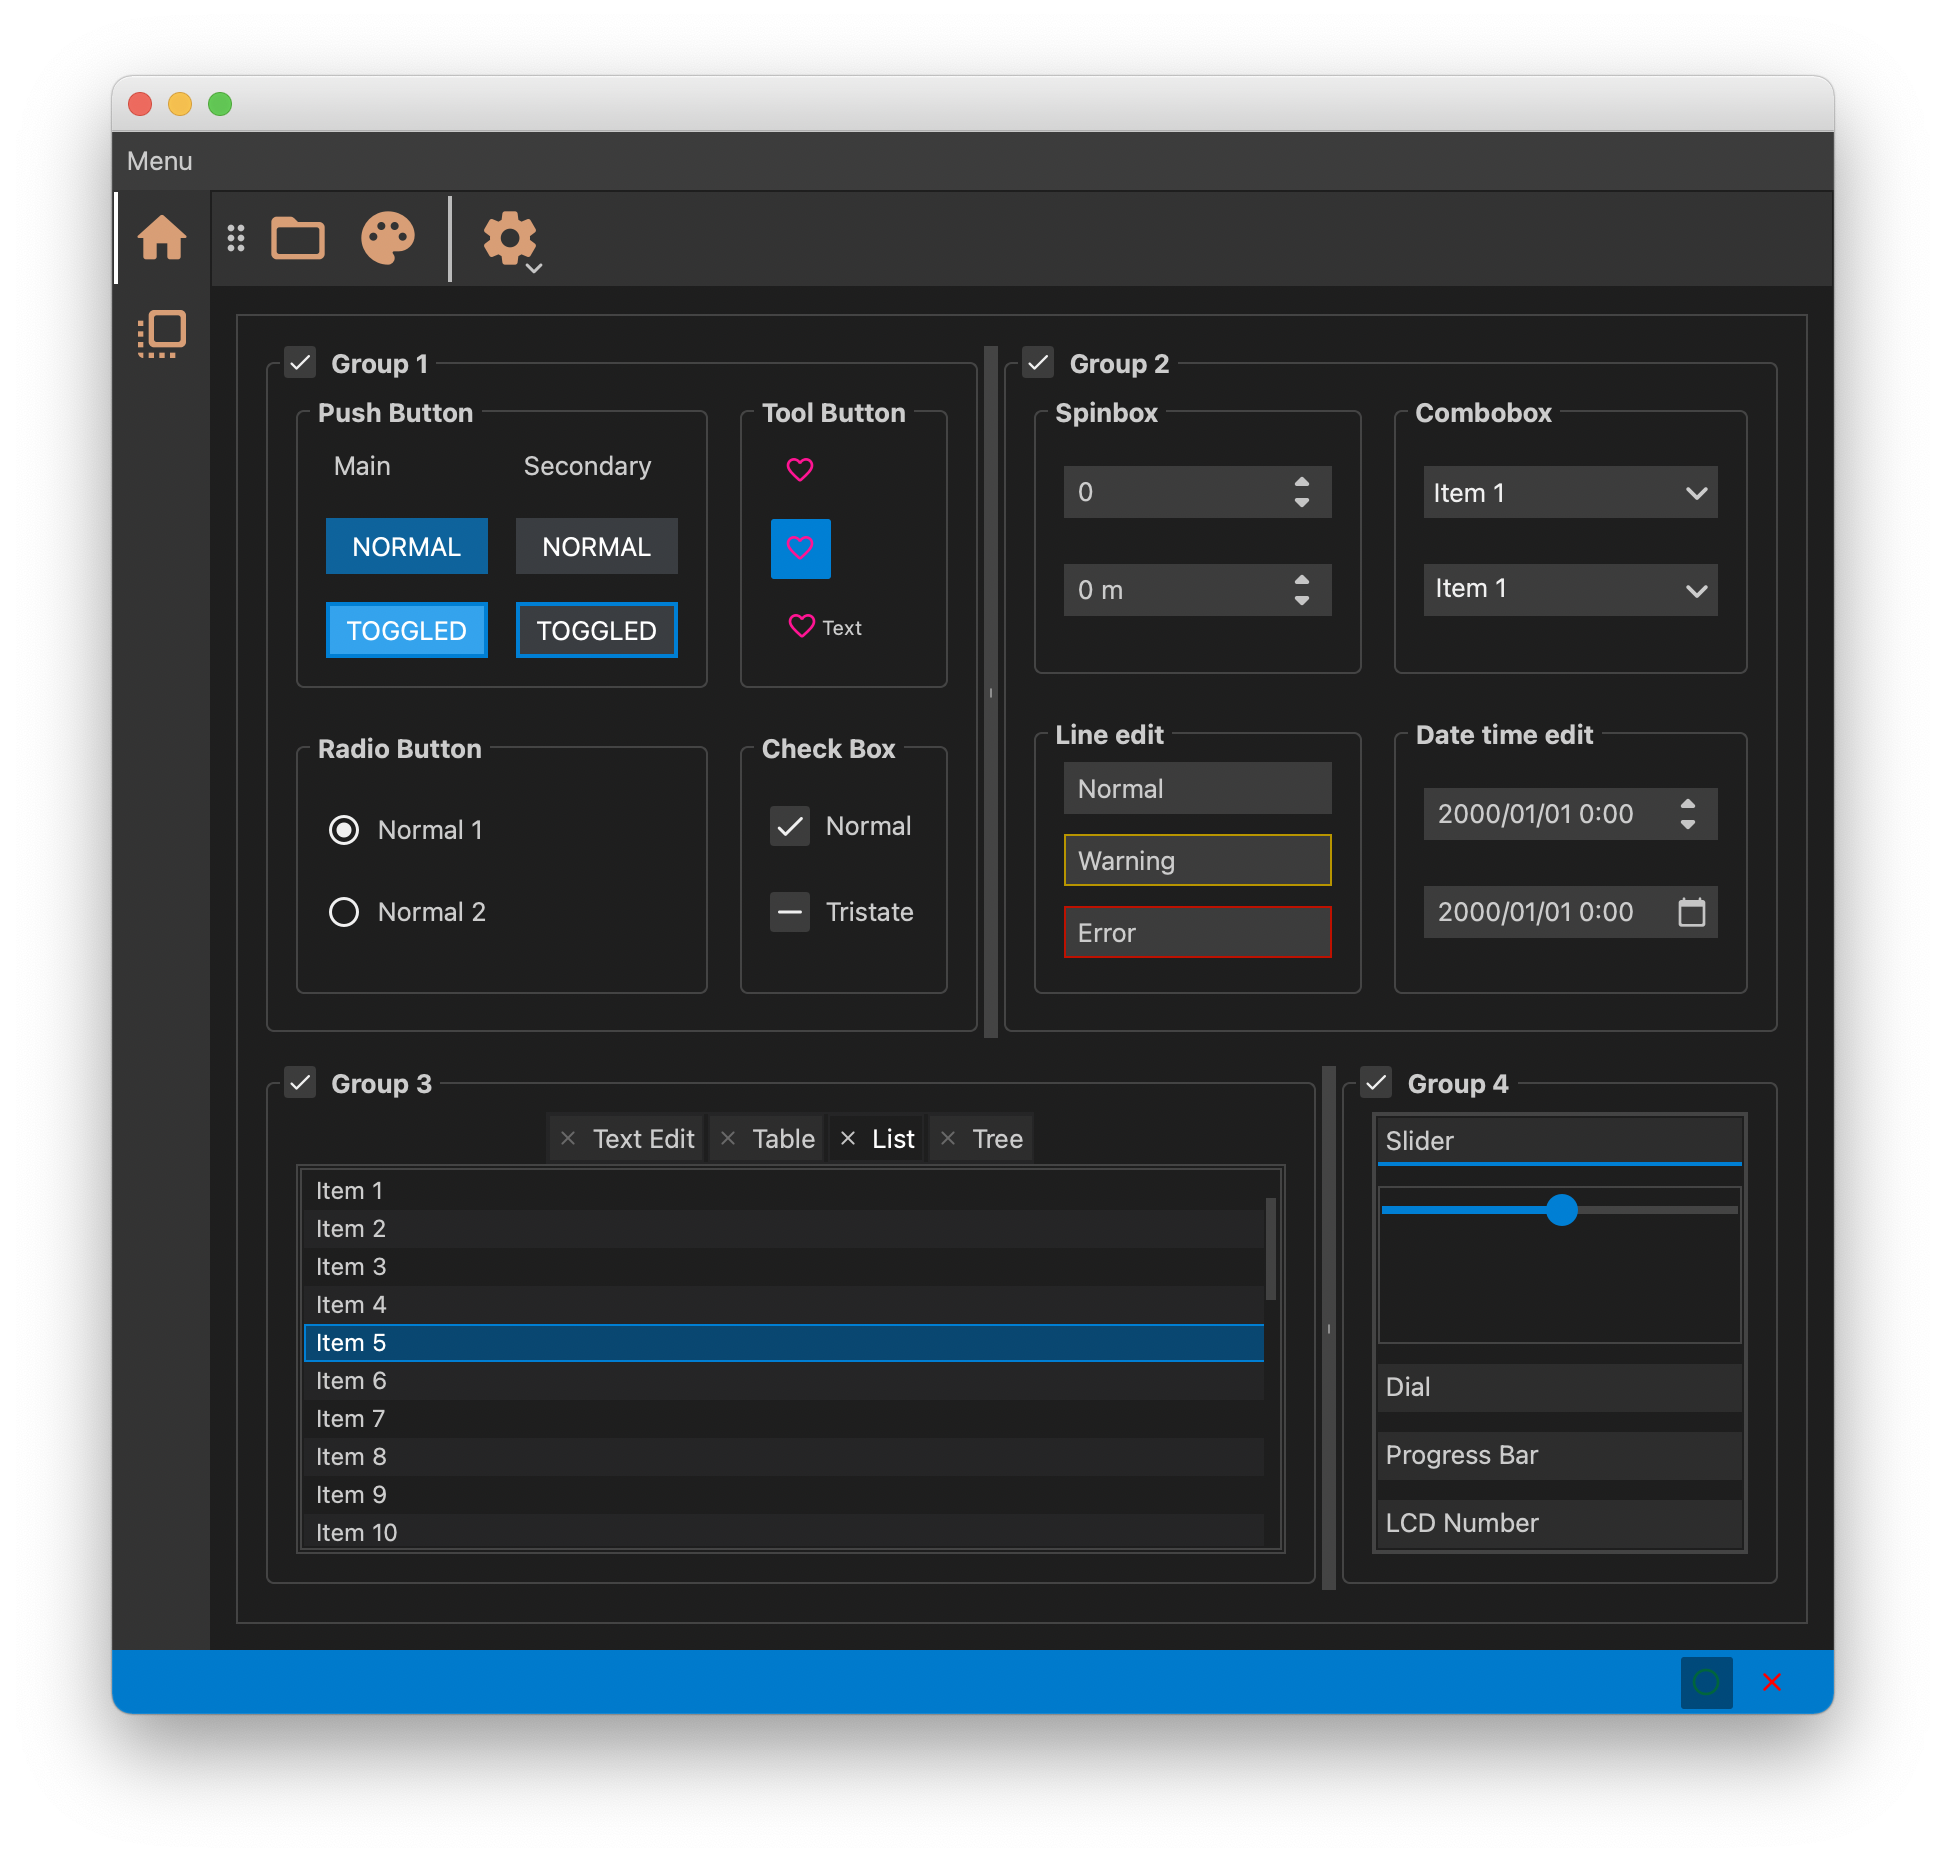
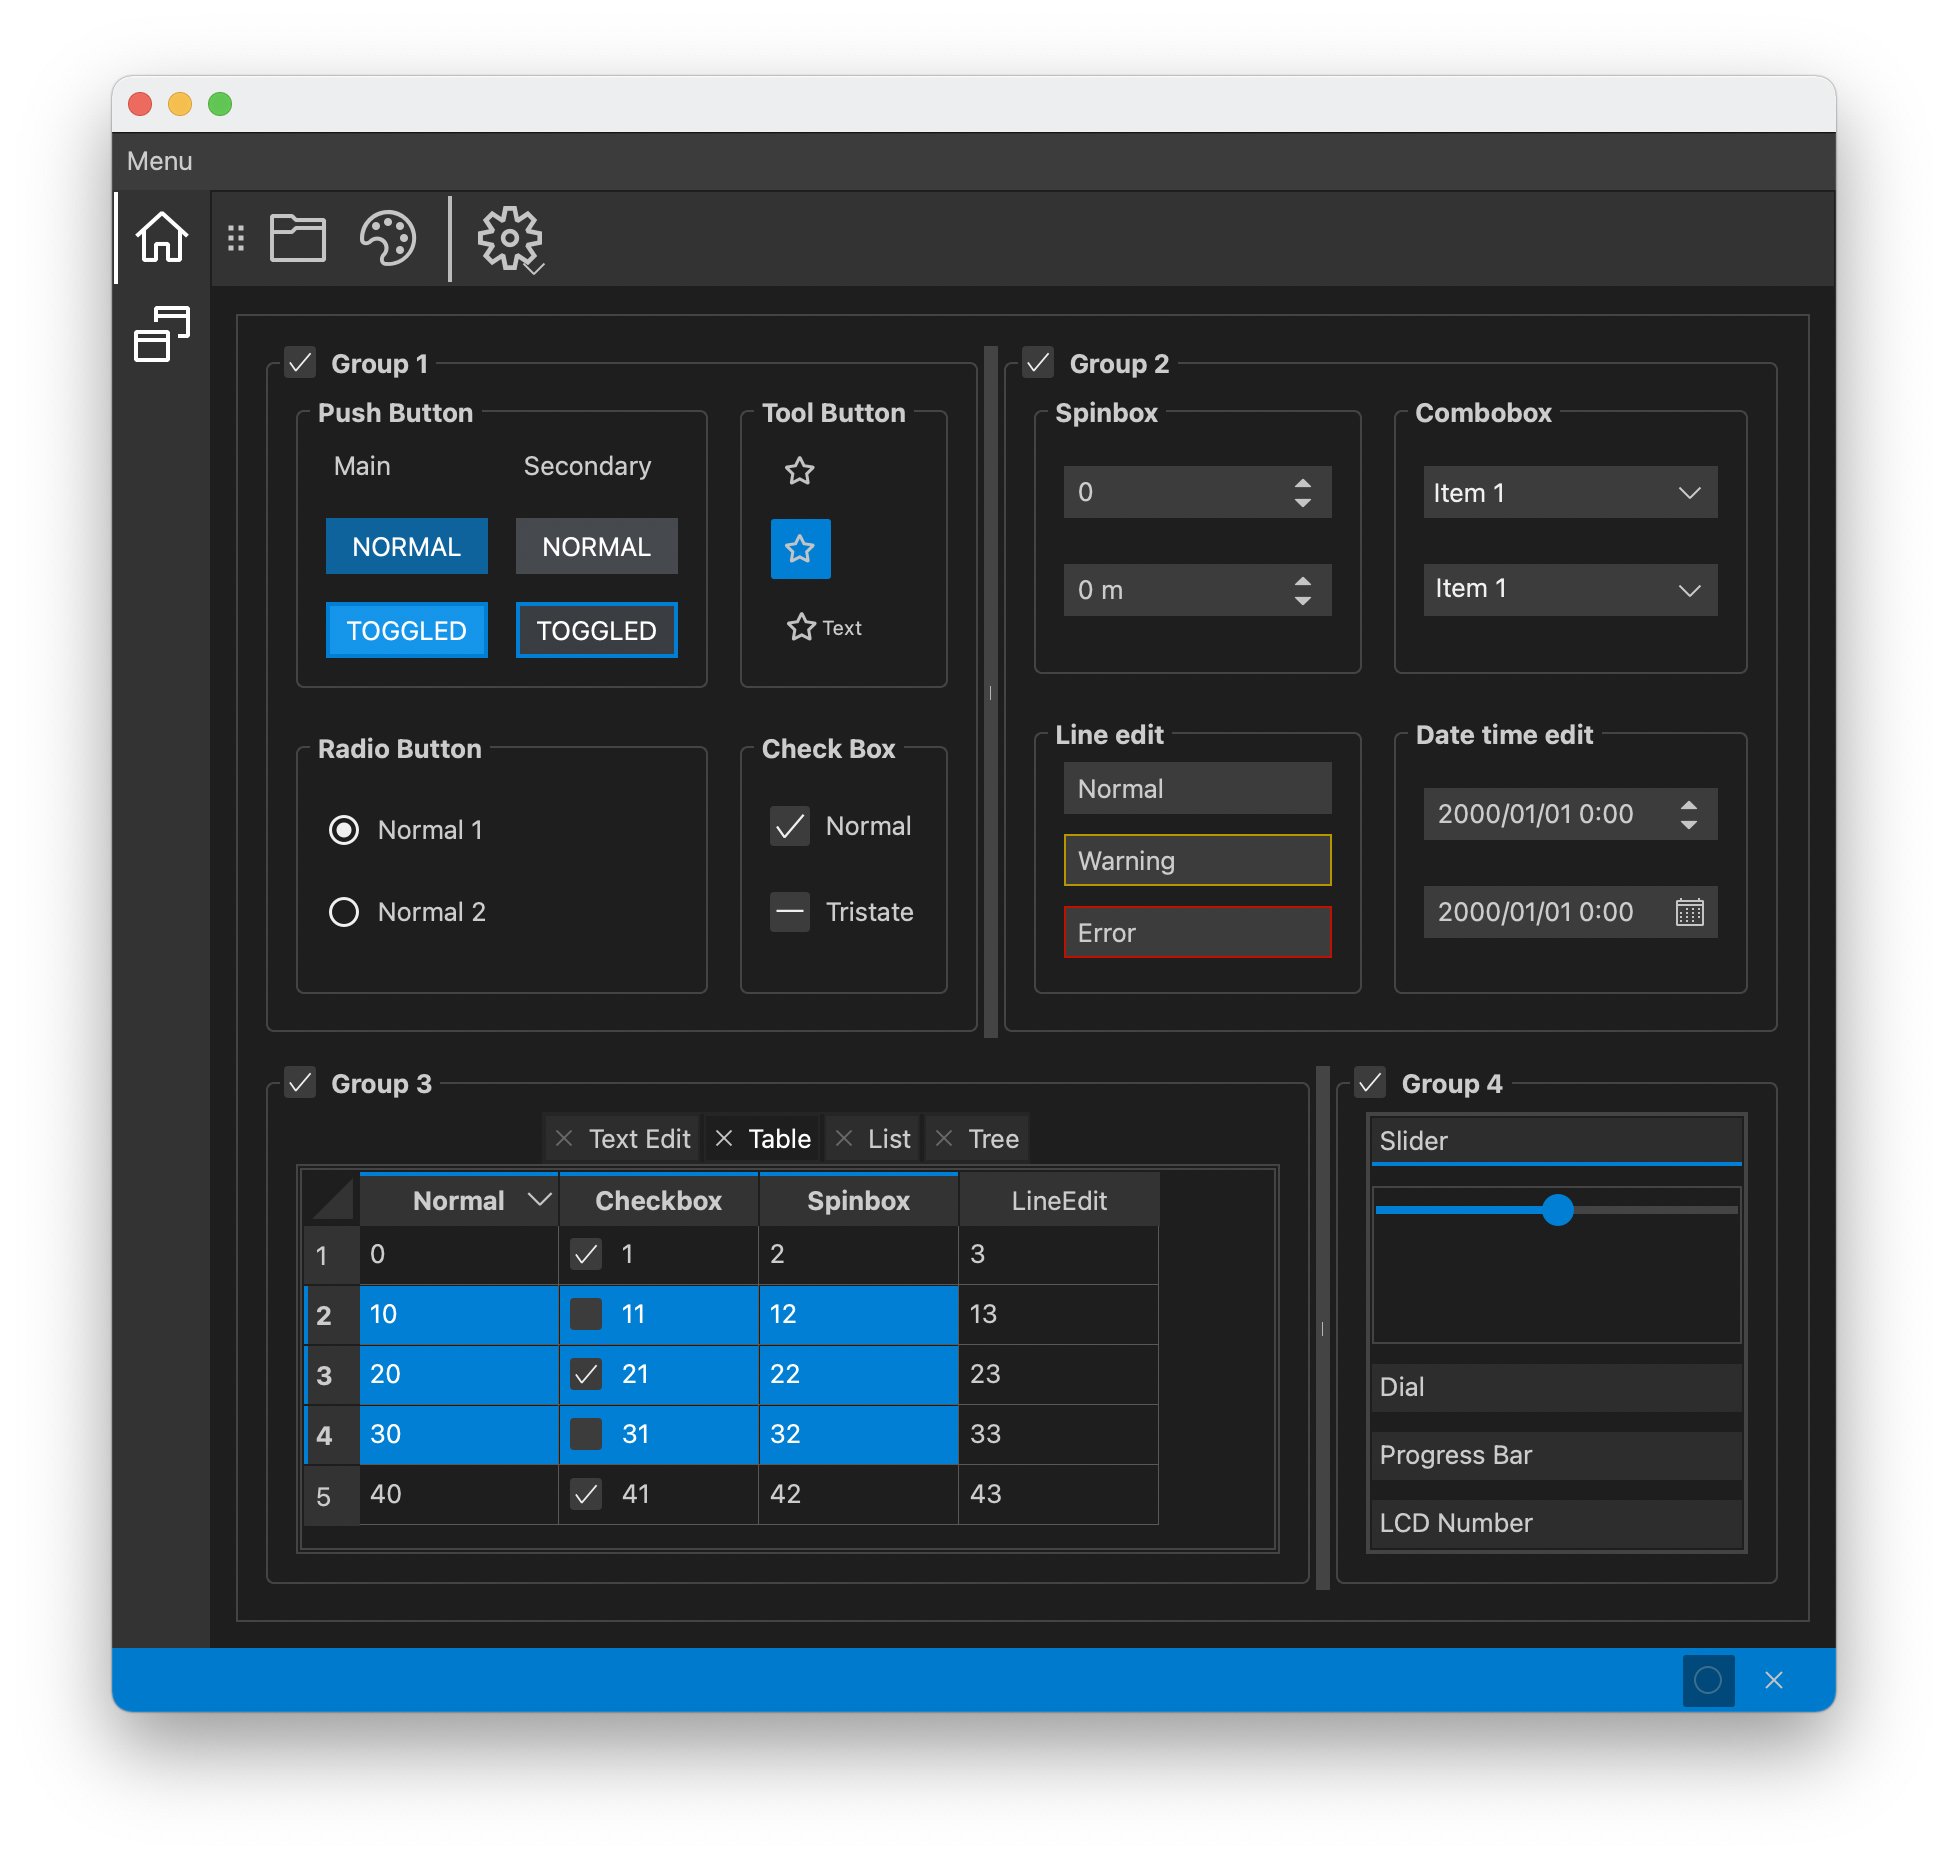
Update readme

diff --git a/README.md b/README.md
@@ -16,6 +16,8 @@ The default and extension themes of VS Code can be used.
 |[Dark (Visual Studio)](https://raw.githubusercontent.com/5yutan5/QtVSCodeStyle/main/images/widget_gallery_dark.png)|[Light (Visual Studio)](https://raw.githubusercontent.com/5yutan5/QtVSCodeStyle/main/images/widget_gallery_light.png)|[Dark High Contrast](https://raw.githubusercontent.com/5yutan5/QtVSCodeStyle/main/images/widget_gallery_hc.png)|
 | :--: | :--: | :--: |
 |[![widget_gallery_dark_theme](https://raw.githubusercontent.com/5yutan5/QtVSCodeStyle/main/images/widget_gallery_dark.png)](https://raw.githubusercontent.com/5yutan5/QtVSCodeStyle/main/images/widget_gallery_dark.png)|[![widget_gallery_light_them](https://raw.githubusercontent.com/5yutan5/QtVSCodeStyle/main/images/widget_gallery_light.png)](https://raw.githubusercontent.com/5yutan5/QtVSCodeStyle/main/images/widget_gallery_light.png)|[![widget_gallery_light_them](https://raw.githubusercontent.com/5yutan5/QtVSCodeStyle/main/images/widget_gallery_hc.png)](https://raw.githubusercontent.com/5yutan5/QtVSCodeStyle/main/images/widget_gallery_hc.png)|
+|[widget_gallery_night_owl_theme](https://raw.githubusercontent.com/5yutan5/QtVSCodeStyle/main/images/widget_gallery_night_owl.png)|[One Dark Pro](https://raw.githubusercontent.com/5yutan5/QtVSCodeStyle/main/images/widget_gallery_one_dark_pro.png)|[Ayu Light](https://raw.githubusercontent.com/5yutan5/QtVSCodeStyle/main/images/widget_gallery_ayu_light.png)|
+|[![Night Owl](https://raw.githubusercontent.com/5yutan5/QtVSCodeStyle/main/images/widget_gallery_night_owl.png)](https://raw.githubusercontent.com/5yutan5/QtVSCodeStyle/main/images/widget_gallery_night_owl.png)|[![widget_gallery_one_dark_pro_theme](https://raw.githubusercontent.com/5yutan5/QtVSCodeStyle/main/images/widget_gallery_one_dark_pro.png)](https://raw.githubusercontent.com/5yutan5/QtVSCodeStyle/main/images/widget_gallery_one_dark_pro.png)|[![widget_gallery_ayu_light_them](https://raw.githubusercontent.com/5yutan5/QtVSCodeStyle/main/images/widget_gallery_ayu_light.png)](https://raw.githubusercontent.com/5yutan5/QtVSCodeStyle/main/images/widget_gallery_ayu_light.png)
 
 etc...
 
@@ -51,15 +53,15 @@ import sys
 
 from PySide6.QtWidgets import QApplication, QMainWindow, QPushButton
 
-from qtvscodestyle import Theme, load_stylesheet
+import qtvscodestyle as qtvsc
 
 app = QApplication(sys.argv)
 main_win = QMainWindow()
 push_button = QPushButton("QtVSCodeStyle!!")
 main_win.setCentralWidget(push_button)
 
-stylesheet = load_stylesheet(Theme.DARK_VS)
-# stylesheet = load_stylesheet(Theme.LIGHT_VS)
+stylesheet = qtvsc.load_stylesheet(qtvsc.Theme.DARK_VS)
+# stylesheet = load_stylesheet(qtvsc.Theme.LIGHT_VS)
 app.setStyleSheet(stylesheet)
 
 main_win.show()
@@ -78,15 +80,15 @@ app.exec()
 To check available themes, run:
 
 ```Python
-from qtvscodestyle import list_themes
+import qtvscodestyle qtvsc
 
 # list theme name and symbol
-list_themes()
+qtvsc.list_themes()
 ```
 
 ```plaintext
-Theme name:          : Symbol
-_____________________________
+Theme name             Symbol
+___________            ______
 
 Light (Visual Studio): LIGHT_VS
 Quiet Light          : QUIET_LIGHT
@@ -127,9 +129,60 @@ custom_colors = {"button.foreground": "#ff0000"}
 stylesheet = load_stylesheet(Theme.DARK_VS, custom_colors)
 ```
 
-The color id of VS Code can be used as it is.
-Which id corresponds to which widget style has not been documented yet.
-Please wait.
+To check available themes, run:
+
+```Python
+import qtvscodestyle as qtvsc
+
+qtvsc.list_color_id()
+```
+
+Same as [VS Code's theme color document](https://code.visualstudio.com/api/references/theme-color).
+
+### SVG and Font QIcon for VS Code style
+
+You can also use various icon fonts and svg as QIcon.
+
+QtAwesome identifies icons by symbolic and  icon name.
+The following symbolic are currently available to use:
+
+- [Font Awesome Free(5.15.4)](https://fontawesome.com/) - Font Icon
+   - `FaRegular`: Regular style
+   - `FaSolid` : Solid style
+   - `FaBrands`: Brands style
+- [vscode-codicons](https://github.com/microsoft/vscode-codicons)
+   - `Vsc`: VS Code style - SVG Icon
+
+You can use icon browser that displays all the available icons.
+
+```Plaintext
+python -m qtvscodestyle.examples.icon_browser
+```
+
+Two functions, `theme_icon()` and `icon()` are available.
+`theme_icon()` create QIcon will automatically switch the color based on the set color-id when you call `load_stylesheet(Another Theme)`.
+
+```Python
+star_icon = qtvsc.theme_icon(qtvsc.Vsc.STAR_FULL, "icon.foreground")
+button = QToolButton()
+button.setIcon(star_icon)
+
+# star_icon switch to the MONOKAI's "icon.foreground" color.
+qtvsc.load_stylesheet(qtvsc.Theme.MONOKAI)
+```
+
+
+`icon()` create QIcon with static color.
+```Python
+# Set red
+star_icon = qtvsc.icon(qtvsc.Vsc.STAR_FULL, "#FF0000")
+button = QToolButton()
+button.setIcon(star_icon)
+
+# Keep red.
+qtvsc.load_stylesheet(qtvsc.Theme.MONOKAI)
+```
+
 
 ### Create new theme
 
@@ -174,6 +227,10 @@ Dictionary, json file(json with comment), and string formats are supported.
    # custom_theme_path = pathlib.Path("custom_theme.json")
    stylesheet = load_stylesheet(custom_theme_path)
    ```
+
+If you customize using json files, you can use json schema.
+Copy json schema from `qvscodestyle/validate_colors.json`
+Using schema example for VS Code: https://code.visualstudio.com/docs/languages/json#_json-schemas-and-settings
 
 ## Check common widgets
 
@@ -246,8 +303,14 @@ python -m qtvscodestyle.resource_builder --help
 ## License
 
 MIT, see [LICENSE.txt](https://github.com/5yutan5/QtVSCodeStyle/blob/main/LICENSE.txt).
-All icons under `qtvscodestyle/google_fonts` are modified from [Material design icons](https://github.com/google/material-design-icons) (which uses an Apache 2.0 license), and are redistributed under the MIT license.  
-See [NOTICE.md](https://github.com/5yutan5/QtVSCodeStyle/blob/main/NOTICE.md).
+QtVSCodeStyle incorporates image assets from external sources.
+The icons for the QtVSCodeStyle are derived from:
+
+- Font Awesome Free 5.15.4 (Font Awesome; SIL OFL 1.1)
+- Material design icons (Google; Apache License Version 2.0)
+- vscode-codicons (Microsoft Corporation; CC-BY-SA-4.0 License)
+
+See [NOTICE.md](https://github.com/5yutan5/QtVSCodeStyle/blob/main/NOTICE.md) for full license information.
 
 ## Acknowledgements
 
